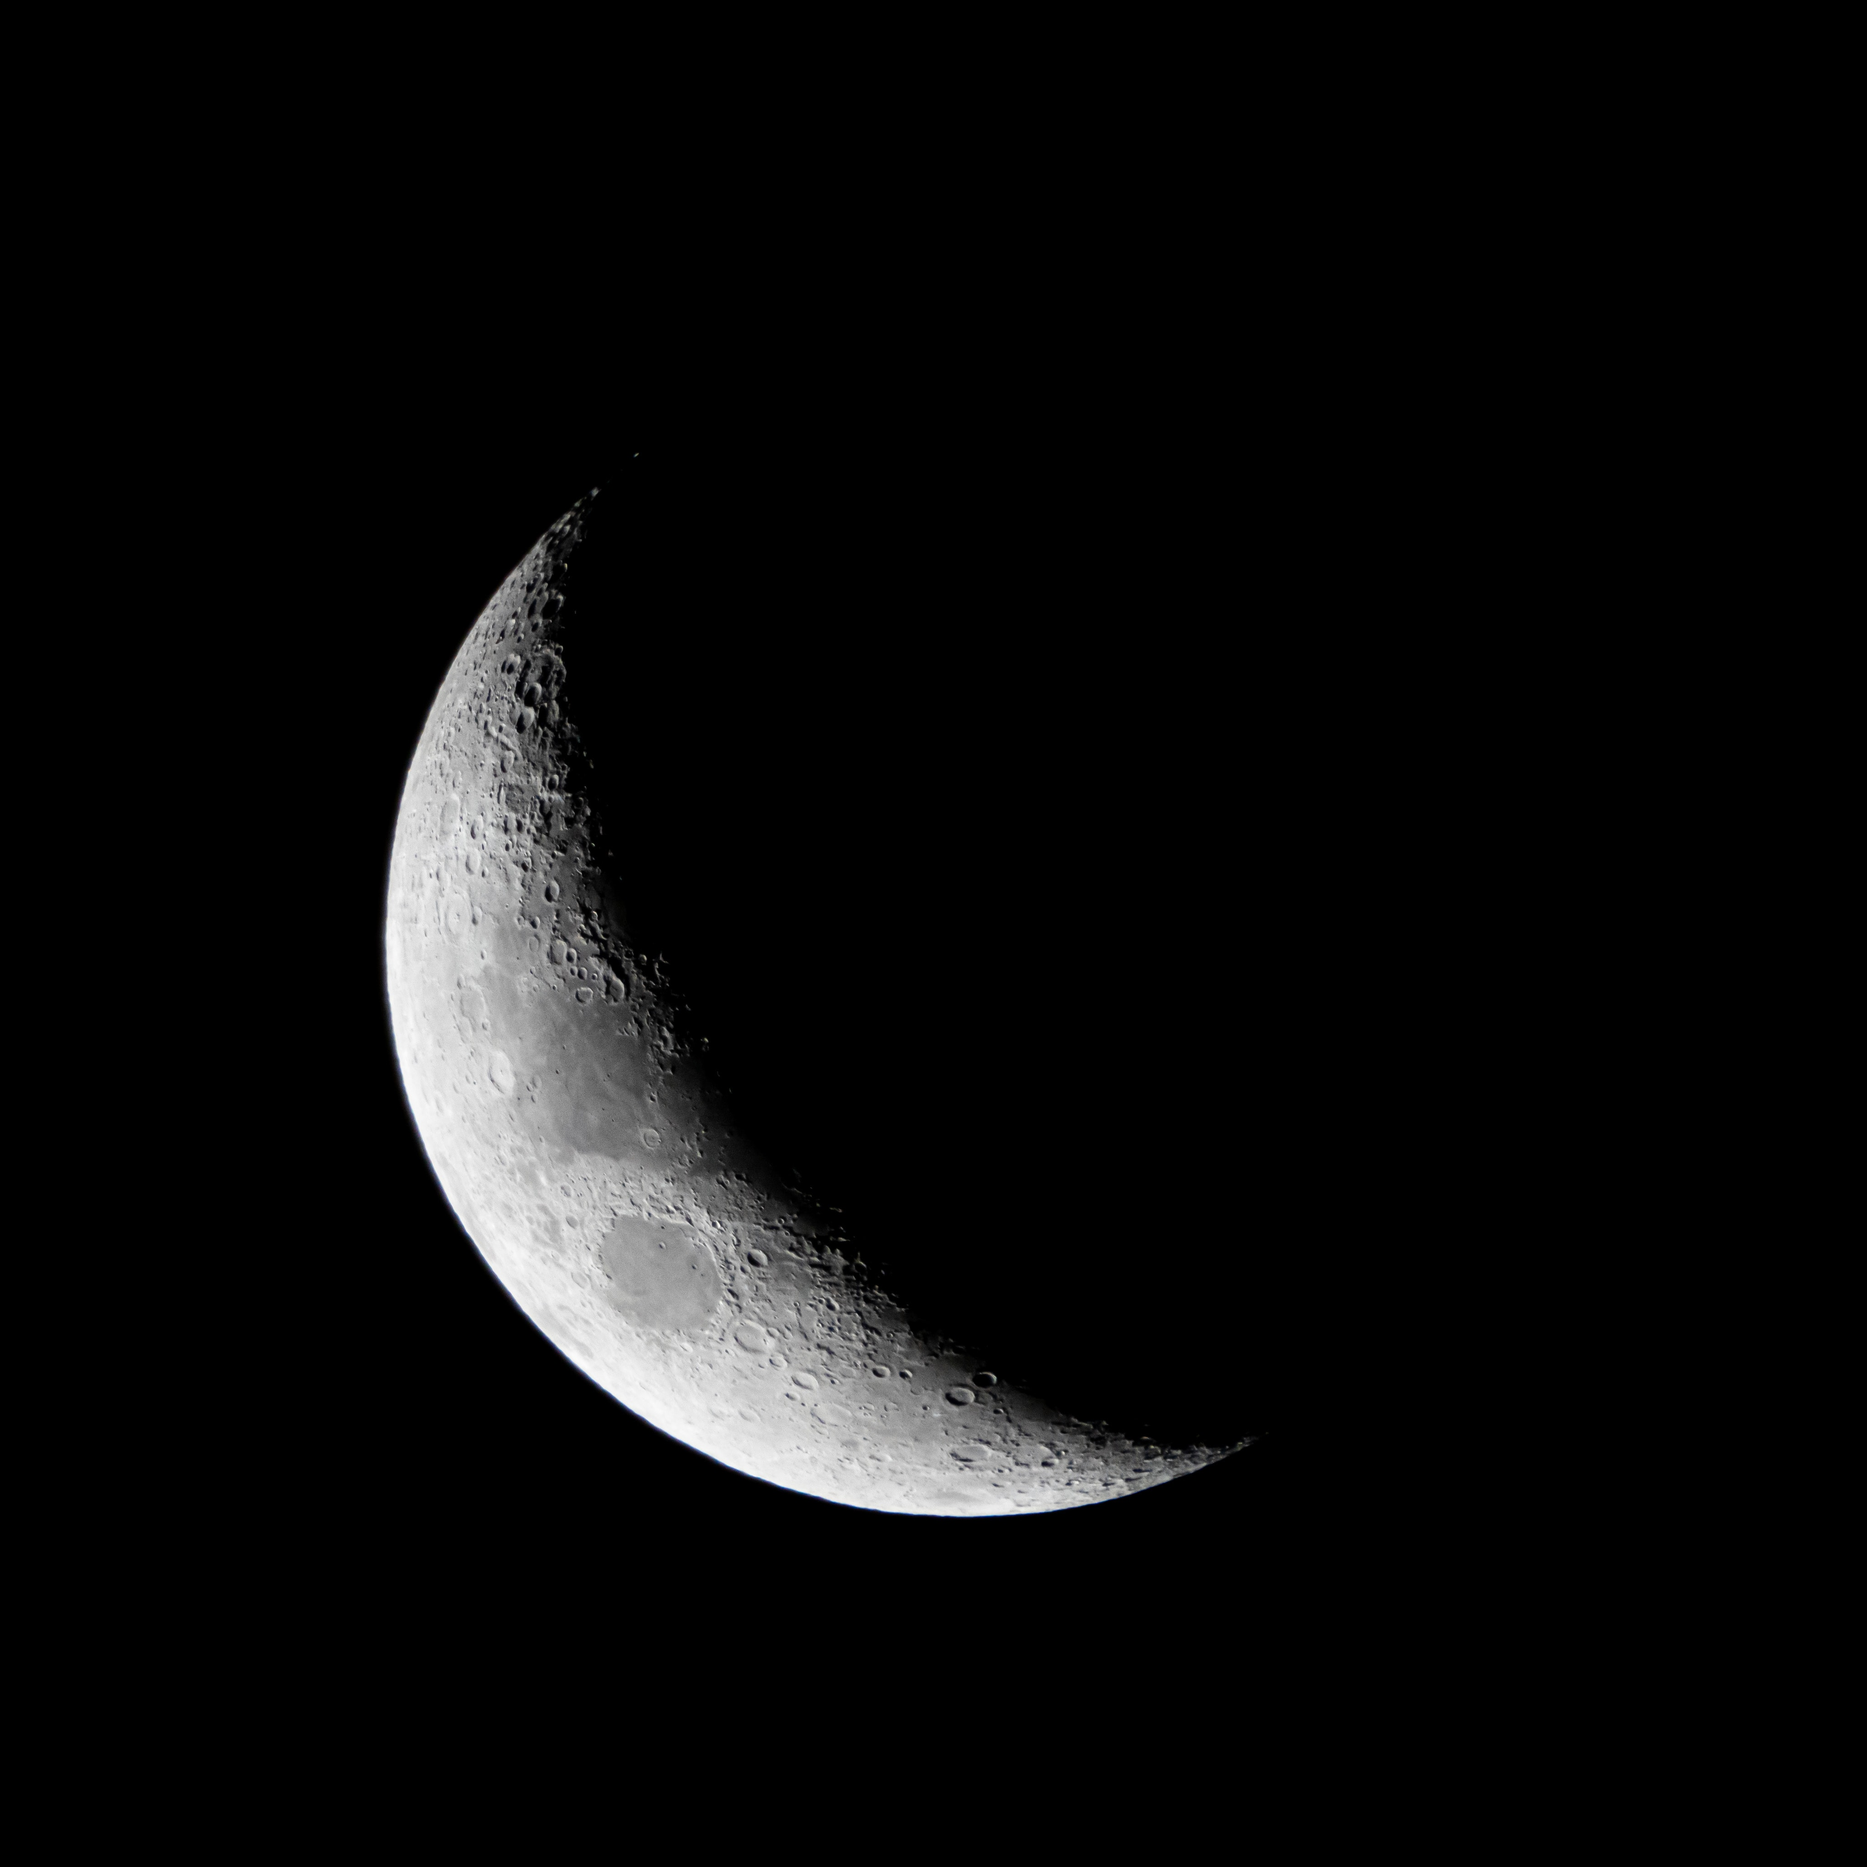
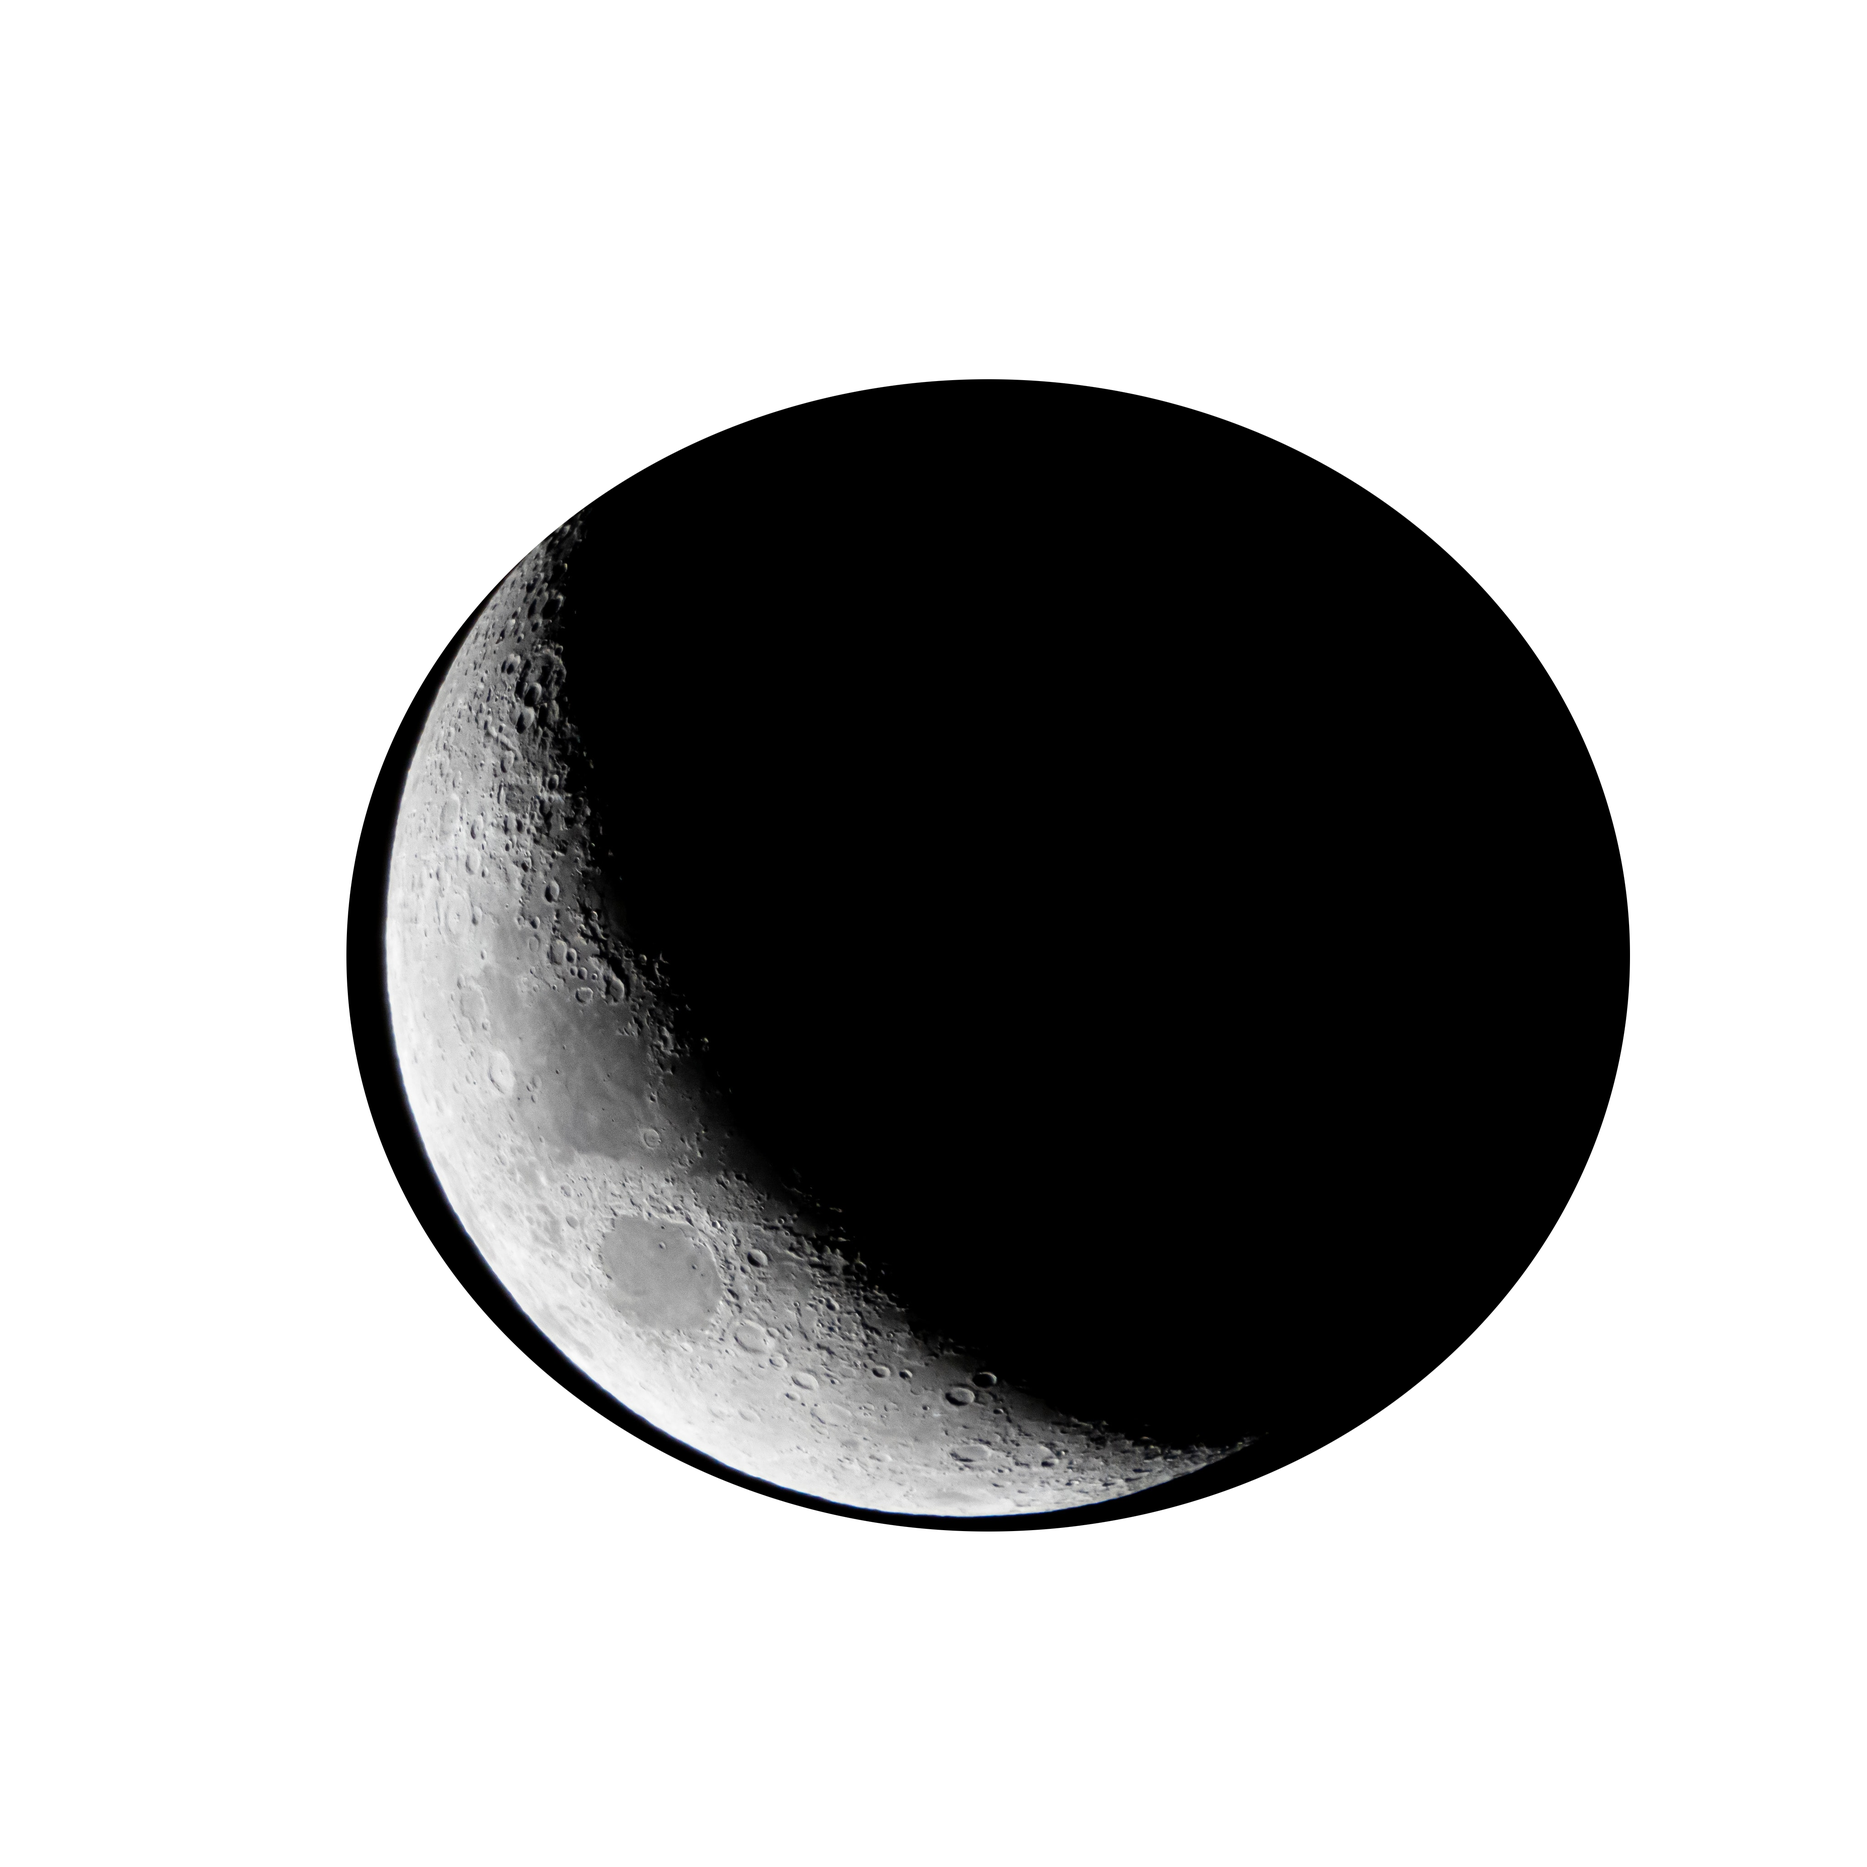
Fixed spacing issues with bootstrap and border to apod content, changed moon images to be round

diff --git a/assets/script.js b/assets/script.js
@@ -15,15 +15,16 @@ let mHeadEl = document.querySelector(`.mHead`)
 let mViewEl = document.querySelector(`.mView`)
 let mFactsEl = document.querySelector(`.mFacts`)
 
-
 let moonDisplayEl = document.getElementById("moonDisplay");
 
+let todaysDate = moment().format("dddd, MMMM Do YYYY, h:mm:ss a");
 
 function nasaAPOD() {
   
-  // fetch("https://api.nasa.gov/planetary/apod?api_key=U61IPOajBkfKLl3G6HYZAV3GIsW9nhyLb030wyt9")
+  fetch("https://api.nasa.gov/planetary/apod?api_key=U61IPOajBkfKLl3G6HYZAV3GIsW9nhyLb030wyt9")
+  // fetch("https://api.nasa.gov/planetary/apod?api_key=U61IPOajBkfKLl3G6HYZAV3GIsW9nhyLb0")
   // fetch("https://api.nasa.gov/planetary/apod?api_key=U61IPOajBkfKLl3G6HYZAV3GIsW9nhyLb030wyt9&date=2021-04-01")
-  fetch("https://api.nasa.gov/planetary/apod?api_key=U61IPOajBkfKLl3G6HYZAV3GIsW9nhyLb030wyt9&date=2017-07-08")
+  // fetch("https://api.nasa.gov/planetary/apod?api_key=U61IPOajBkfKLl3G6HYZAV3GIsW9nhyLb030wyt9&date=2017-07-08")
     .then(response => response.json())
     .then(function(data){
     
@@ -33,16 +34,16 @@ function nasaAPOD() {
     console.log(apodURL) 
     mViewEl.classList.add("d-none")
     mHeadEl.classList.add("d-none")
-    mFactsEl.classList.add("invisible")
+    mFactsEl.classList.add("d-none")
 
-    let apodCon = $(`<div class="my-auto apodCon container text-light text-center"><h5 class="text-center text-light">NASA Astronomy Picture of the Day</h5></div>`)
+    let apodCon = $(`<div class="apodCon container text-light text-center"><h5 class="text-center text-light">NASA Astronomy Picture of the Day</h5></div>`)
     
     $(".rightContainer").prepend(apodCon);
 
     if(apodType == "image"){
 
-      let apodImg = $(`<div class="row justify-content-center">
-      <img class="rounded" id="apodImg" style="width: 38%" src="${apodURL}">
+      let apodImg = $(`<div class="justify-content-center">
+      <img class="ltgray" style="width: 38%" src="${apodURL}">
       </div>`);
       
       $(".apodCon").append(apodImg);
@@ -50,8 +51,8 @@ function nasaAPOD() {
       
     } else if (apodType == "video"){
 
-      let apodVid = $(`<div class="row justify-content-center">
-      <iframe class="apodVid" width="500px" height="300px" src="${apodURL}"></iframe>
+      let apodVid = $(`<div class="justify-content-center">
+      <iframe class="apodVid ltgray" width="500px" height="300px" src="${apodURL}"></iframe>
       </div>`);
             
       $(".apodCon").append(apodVid);
@@ -60,7 +61,7 @@ function nasaAPOD() {
 
       let apodError = $(`<div class="row text-center bg-danger rounded mb-5">
             <h5 class="text-light">We had trouble loading the NASA APOD media! 
-            Please visit their site directly at: <a href="https://apod.nasa.gov/apod/astropix.html">apod.nasa.gov</a>
+            Please visit their site directly at: <a class="text-info" href="https://apod.nasa.gov/apod/astropix.html">apod.nasa.gov</a>
             </h5>
             </div>`);
             
@@ -68,44 +69,11 @@ function nasaAPOD() {
 
     }
 
-
-
-  })
-
-
-
-  
+  })  
 
 };
 
-// let stormapi = "1f5e8eca-92f4-11eb-b01a-0242ac130002-1f5e8f7e-92f4-11eb-b01a-0242ac130002"
-
-// const lat = 58.7984;
-// const lng = 17.8081;
-// const start = 1549312452;
-
-
-// fetch(`https://api.stormglass.io/v2/astronomy/point?lat=${lat}&lng=${lng}&start=${start}`, {
-//   headers: {
-//     'Authorization': stormapi
-//   }
-// }).then((response) => response.json()).then((data) => {
-//   // Do something with response data.
-//   console.log(data)
-
-// });
-
-// stormData(mooninfo);
-
-// function stormData (jsonData) {
-
-//   console.log(jsonData)
-
-// }
-
-let todaysDate = moment().format("dddd, MMMM Do YYYY, h:mm:ss a");
-
-
+// Updates current time and date in header
 let datetime = null;
 let date = null;
 
@@ -121,6 +89,7 @@ $(document).ready(function(){
 });
 
 
+init();
 
 
 
@@ -132,8 +101,8 @@ let unix = ""
 
 let dateInput = document.querySelector('#datepicker')
 
-init();
-
+//Date picker with unix conversion included for API Call
+// Acts opposite clear button to remove start screen/apod content vs phase content
 $('#datepicker').datepicker({
   
   buttonText: "Select date",
@@ -149,7 +118,7 @@ $('#datepicker').datepicker({
     $( ".apodCon" ).remove();
     mViewEl.classList.remove("d-none")
     mHeadEl.classList.remove("d-none")
-    mFactsEl.classList.remove("invisible")
+    mFactsEl.classList.remove("d-none")
 
     $("#dateCheck").val(dateText);
     console.log(dateText);
@@ -173,7 +142,7 @@ $('#datepicker').datepicker({
   },
 
 });
-
+// API call for moon phase data
 function getPhaseInfo(unix) {
 
   fetch("https://api.farmsense.net/v1/moonphases/?d="+unix)
@@ -193,48 +162,47 @@ function getPhaseInfo(unix) {
     console.log(moonPhase)
     phaseSpanEl.textContent = moonPhase;
     
-    // phaseSpanEl.classList.remove("invisible")
-    // factsConEl.classList.remove("invisible")
-
     factPhaseEl.textContent = "Moon Phase: " + factPhase 
     factIllumEl.textContent = "Illumination: " + factIllum 
     factMNameEl.textContent = "Full Moon Cycle Name: " + factMName 
-    factDSunEl.textContent = "Distance from the Sun: " + factDSun 
-    factDEarthEl.textContent = "Distance from the Earth: " + factDEarth 
+    factDSunEl.textContent = "Distance from the Sun: " + factDSun + "km"
+    factDEarthEl.textContent = "Distance from the Earth: " + factDEarth  + "km"
     
 
   })
 
 }
 
+// Supplies the correct moon phase picture to the page from date info
 function moonPhoto(moonPhase) {
 
   if (moonPhase === "Waxing Crescent") {
-    moonDisplayEl.src = "assets/moons/waxingcrescent.jpg"
+    moonDisplayEl.src = "assets/moons/waxingcrescent.png"
     
   } else if (moonPhase ==="Waxing Gibbous") {
-    moonDisplayEl.src = "assets/moons/waxinggibbous.jpg"
+    moonDisplayEl.src = "assets/moons/waxinggibbous.png"
     
   } else if (moonPhase ==="1st Quarter") {
-    moonDisplayEl.src = "assets/moons/firstquarter.jpg"
+    moonDisplayEl.src = "assets/moons/firstquarter.png"
     
   } else if (moonPhase ==="3rd Quarter") {
-    moonDisplayEl.src = "assets/moons/thirdquarter.jpg"
+    moonDisplayEl.src = "assets/moons/thirdquarter.png"
     
   } else if (moonPhase ==="Waning Crescent") {
     moonDisplayEl.src = "assets/moons/waningcrescent.png"
     
   } else if (moonPhase ==="Waning Gibbous") {
-    moonDisplayEl.src = "assets/moons/waninggibbous.jpg"
+    moonDisplayEl.src = "assets/moons/waninggibbous.png"
     
   } else if (moonPhase ==="Full Moon") {
-    moonDisplayEl.src = "assets/moons/fullmoon.jpg"
+    moonDisplayEl.src = "assets/moons/fullmoon.png"
     
   } else if (moonPhase ==="New Moon") {
-    moonDisplayEl.src = "assets/moons/newmoon.jpeg"
+    moonDisplayEl.src = "assets/moons/newmoon.png"
 
   };
 };
+
 
 // Reruns the content console for selected date on search history buttons
 function dateSelected(event) {
@@ -304,6 +272,7 @@ function clearSearches (event){
 // Star field
 ///////////////////////////////////
 
+//Extends the canvas element to entire window size and adds resizing capabilities to follow window
 let canvas = document.getElementById("canvas");
     let c = canvas.getContext("2d");
 
@@ -322,7 +291,7 @@ let canvas = document.getElementById("canvas");
     window.onresize = () => {
       canvasSize();
     };
-
+    // Randomly generates star coordinates on xyz plane
     let makeStars = count => {
       let out = [];
       for (let i = 0; i < count; i++) {
@@ -335,21 +304,21 @@ let canvas = document.getElementById("canvas");
       }
       return out;
     };
-
+    //Calls above random coordinate generator times 10000
     let stars = makeStars(10000);
 
     let clear = () => {
       c.fillStyle = "black";
       c.fillRect(0, 0, canvas.width, canvas.height);
     };
-
+    //Give stars pixel brightness to display at given coordinates
     let putPixel = (x, y, brightness) => {
       let intensity = brightness * 255;
       let rgb = "rgb(" + intensity + "," + intensity + "," + intensity + ")";
       c.fillStyle = rgb;
       c.fillRect(x, y, 1, 1);
     };
-
+    //changes z coordinate for stars to move forwards
     let moveStars = distance => {
       let count = stars.length;
       for (var i = 0; i < count; i++) {
@@ -360,7 +329,7 @@ let canvas = document.getElementById("canvas");
         }
       }
     };
-
+    // Changes refresh and therefore star movement speed
     let prevTime;
     let initial = time => {
       prevTime = time;

diff --git a/index.html b/index.html
@@ -5,7 +5,8 @@
     <meta http-equiv="X-UA-Compatible" content="IE=edge">
     <meta name="viewport" content="width=device-width, initial-scale=1.0">
     <title>MoonPhaser</title>
-
+    <link rel="preconnect" href="https://fonts.gstatic.com">
+    <link href="https://fonts.googleapis.com/css2?family=Space+Mono&display=swap" rel="stylesheet"> 
     <link rel="stylesheet" href="https://maxcdn.bootstrapcdn.com/bootstrap/4.5.2/css/bootstrap.min.css">
     <link rel="stylesheet" href="https://code.jquery.com/ui/1.12.1/themes/base/jquery-ui.css">
     <link rel="stylesheet" href="assets/style.css">
@@ -24,15 +25,6 @@
                 <div class="text-center"> 
                     <h3 class="text-light">Search History</h3>
                     <div class="historyButtonCon">
-                        <!-- <ul><button>🌑 New Moon</button></ul>
-                        <ul><button>🌓 First Quarter Moon</button></ul>
-                        <ul><button>🌔 Waxing Gibbous Moon</button></ul>
-                        <ul><button>🌕 Full Moon</button></ul>
-                        <ul><button>🌒 Waxing Cresent Moon</button></ul>
-                        <ul><button>🌖 Waning Gibbous Moon</button></ul>
-                        <ul><button>🌗 Last Quarter Moon</button></ul>
-                        <ul><button>🌘 Waning Cresent Moon</button></ul>
-                        <ul><button>🌚 New Moon</button></ul> -->
                     </div>
                     <button class="btn btn-danger btn-block my-3" id="clearBtn">Clear</button>
                 </div>  
@@ -45,7 +37,7 @@
                 <div class="rightContainer container d-flex align-items-start flex-column rounded">
                                         
                     <div class="mHead container text-center text-light">
-                        <h3 class="phaseText">Moon Phase</h3>
+                        <h3 class="phaseText"></h3>
                     </div>
                     <div class="mView container-fluid">
 
@@ -53,7 +45,7 @@
 
                     </div>
                     
-                    <div class="mFacts bg-info container-fluid d-flex flex-column mt-auto rounded text-light" id="factsCon">
+                    <div class="mFacts d-none bg-info container-fluid flex-column mt-auto rounded text-light" id="factsCon">
                         
                         <div class="row justify-content-start ml-1">
                             <p id="factPhase"></p>

diff --git a/assets/style.css b/assets/style.css
@@ -1,39 +1,27 @@
    
 
         body {
-            /*background: url(https://apod.nasa.gov/apod/image/2103/sprites_beletsky_960.jpg); */
             background-color: black;
-            font-family: futura;
-        }
+            font-family: 'Space Mono', monospace; 
+       }
         button {
             border-radius: 45%;
             border-color: whitesmoke;
-            /* opacity: 0.5; */
             background-color: darkslateblue;
             color: whitesmoke;
             padding: 10px;
             margin: auto;
         }
-        /* #apod { */
-            /* display: none;  */
-        /* } */
-        /* div {
-            float: left;
-            width: 100%;
-            
-        } */
+        
         .header {
             background-color:rgb(112, 145, 216);
         }
         .leftContainer {
             background-color: none;
-            /* width: 30%; */
-            /* height: 90vh; */
+            
         }
         .rightContainer {
-            /* background-color: blue; */
-            /* opacity: .6; */
-            /* width: 70%; */
+            
             height: 90vh;
         }
         .footer {
@@ -42,7 +30,6 @@
         }
         .moonPhase {
             background-color: rgb(235, 236, 245);
-            /* width: 15%; */
             padding: 20px;
             border-radius: 25px;
             margin-left: 40px;
@@ -50,10 +37,7 @@
         .leftContainer label {
             background-color: lightslategrey;
 
-            /* width: 100%; */
-            /* text-align: center; */
-            /* float: left; */
-            /* padding-block: 25px; */
+         
         }
         .rightContainer label { 
             background-color: rgb(46, 173, 173);
@@ -61,14 +45,16 @@
             font-family: Verdana, Geneva, Tahoma, sans-serif;
             border-radius: 25%;
             padding: 5px 0px 5px 5px;
-            /* width: 100%; */
-            /* text-align: center; */
-            /* float: left; */
+           
             
         }
 
+        .ltgray{
+            border-radius: 15px;
+            border-color: gray;
+            border-style: solid;
+        }
 
-        /* ///////////////////////////////// */
         .mpCon {
             z-index: 1;
         }

diff --git a/README.md b/README.md
@@ -1,1 +1,10 @@
-# MoonPhases
+# MoonPhaser
+
+## About
+
+   
+  
+  The site may be accessed at: [its GitHub page url](https://anth8nyc.github.io/MoonPhases/)
+
+##  Site Preview
+![Site Preview](./assets/moonphaserdemo.png)
